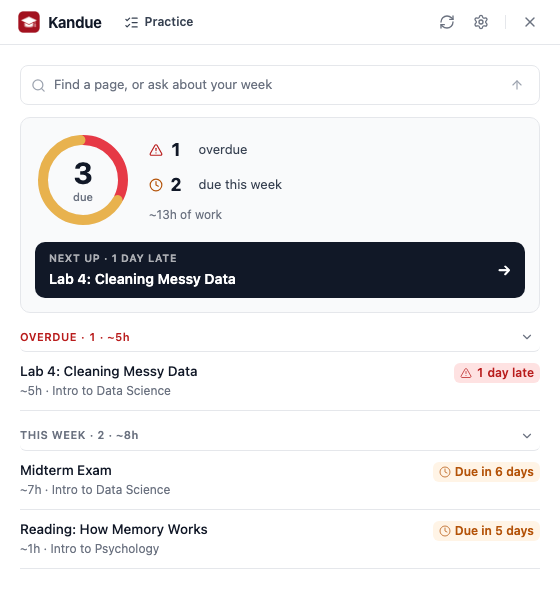
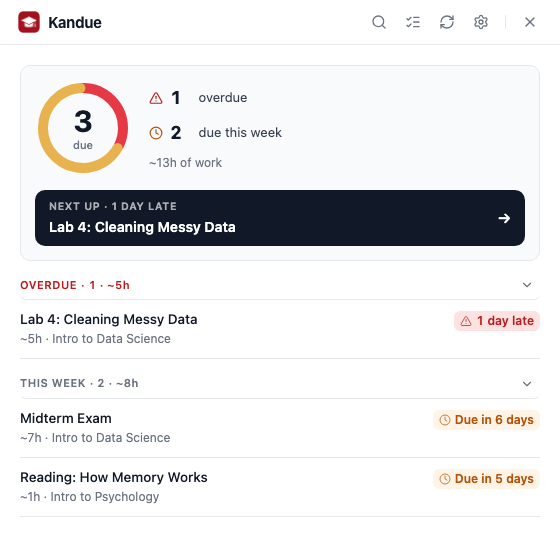
Students screenshots with the course and search in the header

diff --git a/docs/index.html b/docs/index.html
@@ -382,7 +382,7 @@
                 <div class="shot-feature">
                     <!-- ?v= is the edge cache key (see the brand mark): these files were
                          replaced in place, and Cloudflare holds them for four hours. -->
-                    <div class="shot-media"><img src="ss1.png?v=11" width="1120" height="1110" alt="The Kandue panel under a bar reading &quot;Find a page, or ask about your week&quot;: a ring of 2 due, 0 overdue and 2 due this week at about 4.5 hours of work, a Next up button naming Assignment 4: Linear Regression, due in 3 days, then that assignment marked Critical and a reading response, each ending in a chip saying when it is due, and buttons for Later, No due date and Announcements with 1 new" loading="lazy" decoding="async"></div>
+                    <div class="shot-media"><img src="ss1.png?v=12" width="1120" height="940" alt="The Kandue panel, headed by an All courses switch and a search button: a ring of 2 due, 0 overdue and 2 due this week at about 4.5 hours of work, a Next up button naming Assignment 4: Linear Regression, due in 3 days, then that assignment marked Critical and a reading response, each ending in a chip saying when it is due, and buttons for Later, No due date and Announcements with 1 new" loading="lazy" decoding="async"></div>
                     <div class="shot-copy">
                         <h4>Everything due, in one place</h4>
                         <p>Overdue, due today and coming up, counted across every course, with this week's announcements above the list, each one carrying the colour of the course it is about.</p>
@@ -390,7 +390,7 @@
                 </div>
 
                 <div class="shot-feature">
-                    <div class="shot-media"><img src="ss-priorities.png?v=11" width="560" height="592" alt="The Kandue assignment queue under a bar reading &quot;Find a page, or ask about your week&quot;: a ring of 3 due, 1 overdue and 2 due this week, a Next up button naming the lab that is 1 day late, then that lab under Overdue with a red 1 day late chip, and a midterm exam and a reading under This week with amber Due in 6 days and Due in 5 days chips" loading="lazy" decoding="async"></div>
+                    <div class="shot-media"><img src="ss-priorities.png?v=12" width="560" height="540" alt="The Kandue assignment queue: a ring of 3 due, 1 overdue and 2 due this week, a Next up button naming the lab that is 1 day late, then that lab under Overdue with a red 1 day late chip, and a midterm exam and a reading under This week with amber Due in 6 days and Due in 5 days chips" loading="lazy" decoding="async"></div>
                     <div class="shot-copy">
                         <h4>Know what to start</h4>
                         <p>Your week ranked by what actually matters first, each task with an hour estimate and one line on why it's there. Tell it how long something really took and the estimates adjust to you.</p>
